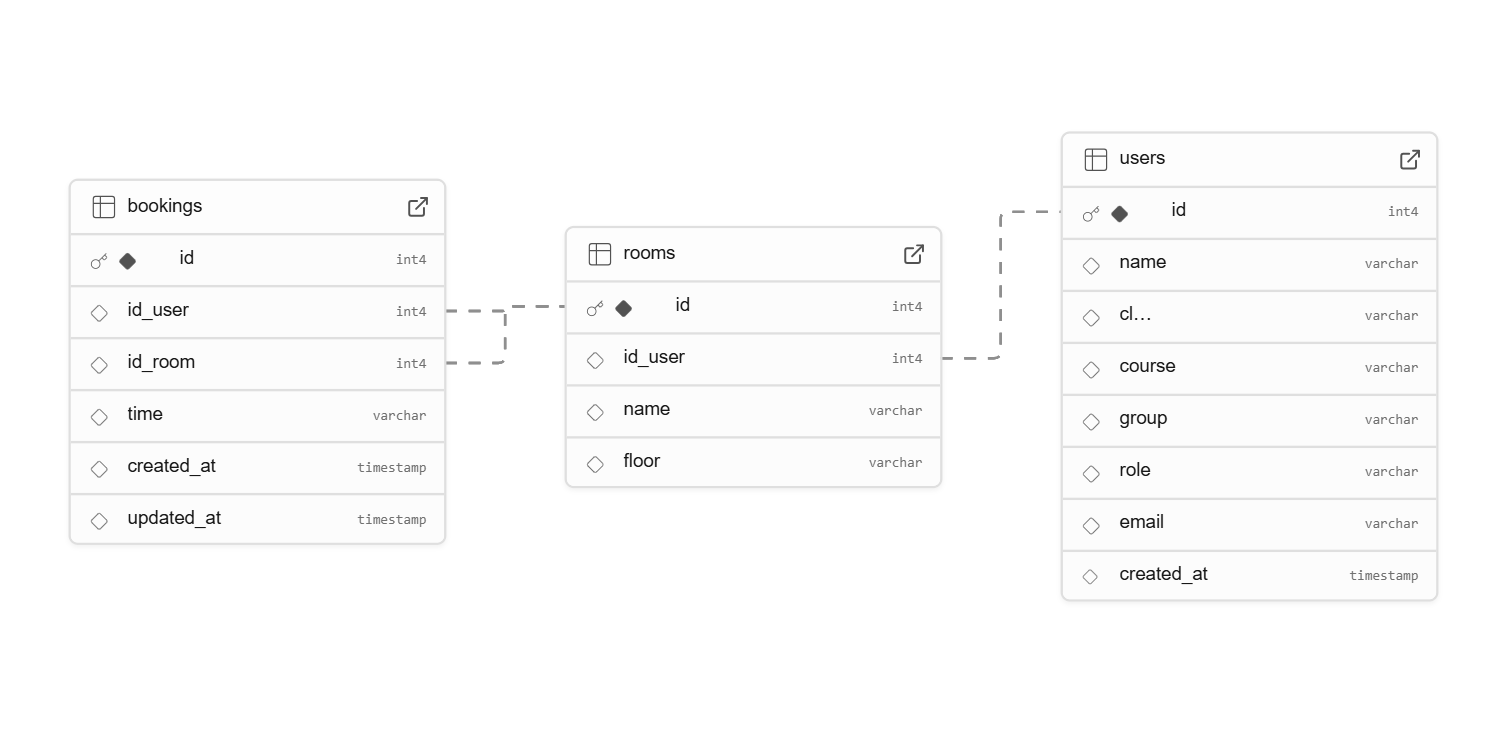
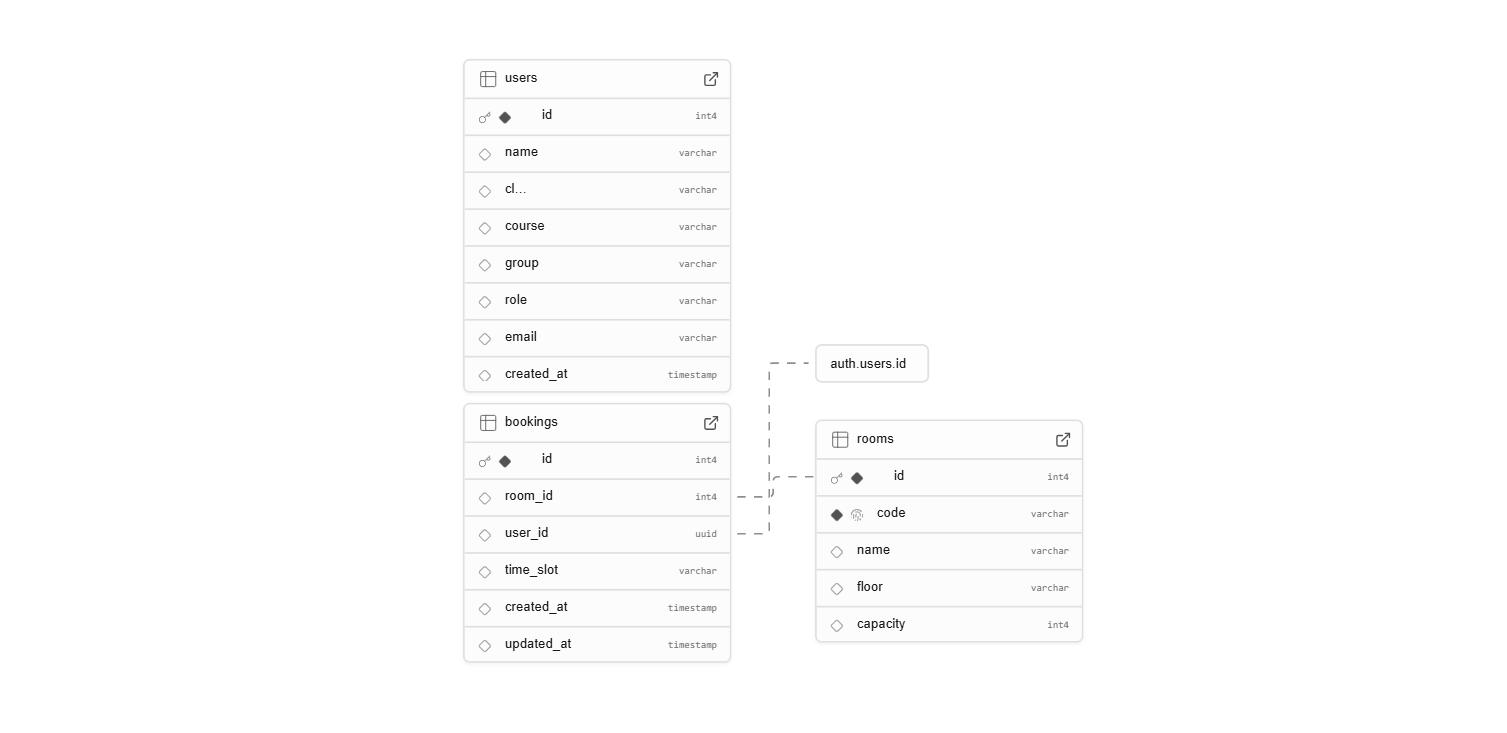
docs: updated relational model Sql

diff --git a/documentos/wad.md b/documentos/wad.md
@@ -79,7 +79,7 @@ O modelo relacional desenvolvido para o **InteliRooms** busca representar os alu
 </div>
 
 <div align="center">
-<sub>Fonte: Autoria própria, criado com dbdiagram.io (2025)</sub>
+<sub>Fonte: Autoria própria, gerado pelo Supabase (2025)</sub>
 </div>
 <br>
 
